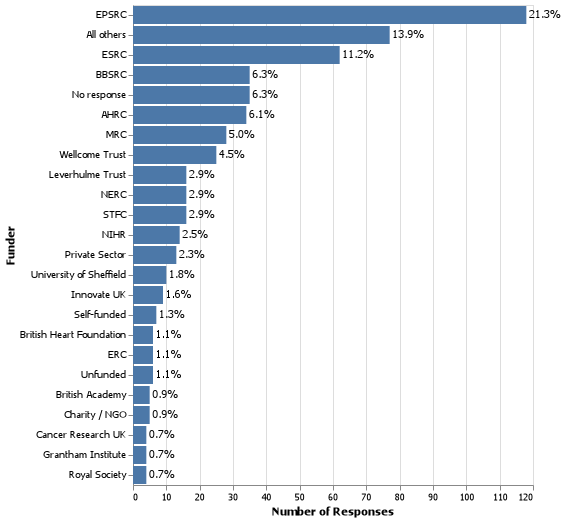
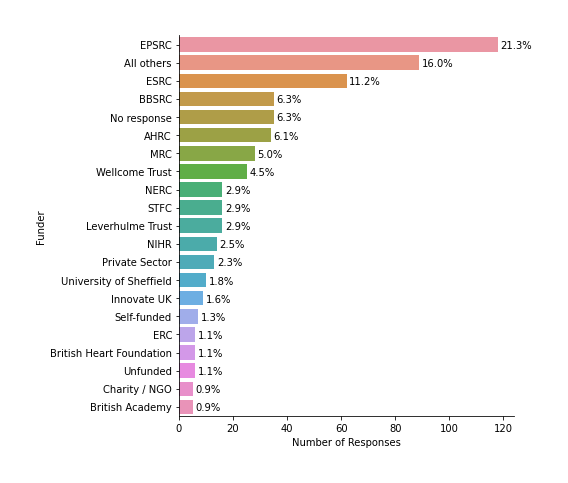
more seaborn

diff --git a/report.md b/report.md
@@ -45,7 +45,7 @@ Participants were asked where the funding from their research comes from, and co
 
 *Which of the following organisations usually fund your research?*
 
-Where there were three or less responses for a given agency, these were grouped as "All others."
+Where there were 4 or less responses for a given agency, these were grouped as "All others."
 
 All of the major branches of UKRI are represented, along with charities including the Wellcome Trust and Leverhulme Trust. This chart can't be interpreted as indicating which bodies are more or less likely to fund software development due to sample bias in which researchers responded to the survey. The largest funder by proportion was the EPSRC, and the largest faculties by response proportion were Engineering and Science, who might be expected to draw most from this funder. We also have not corrected in any way for funder budgets, or number of applications funded. It is not clear that all of these funders funded software development.
 
